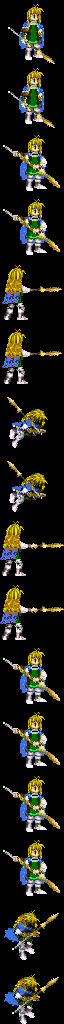
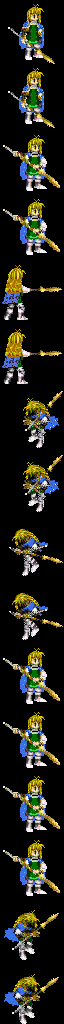
Sarah: leap attack - new rise and attack poses (flipped to face the party), replacing the dash and thrust
Claude-Session: https://claude.ai/code/session_01DQWC7xTsxVudAbpPbiVFX3

Changed region(s): [[0.0312, 0.375, 0.9688, 0.625]]

diff --git a/tools/dark_story/build_sarah_art.py b/tools/dark_story/build_sarah_art.py
@@ -32,8 +32,8 @@ SHARED_PALETTE = ROOT / "games/tbs/src/system/memory/basic.png"
 FRAME = 64
 FRAMES = 16
 # Frame -> supplied pose; the other frame of each pair is a copy.
-MIRROR = set()  # the poses are used as drawn (a flipped dash ran backwards)
-STEPS = {0: "idle_new", 2: "idle2", 4: "attack_end", 6: "dash", 8: "attack",
+MIRROR = {"rise", "attack_leap"}  # drawn facing left; enemies face the party on the right, as Menardi's rise and strike do
+STEPS = {0: "idle_new", 2: "idle2", 4: "attack_end", 6: "rise", 8: "attack_leap",
          10: "idle1", 12: "idle1", 14: "damage"}
 
 palette = Image.open(SHARED_PALETTE).getpalette()[:224 * 3]
